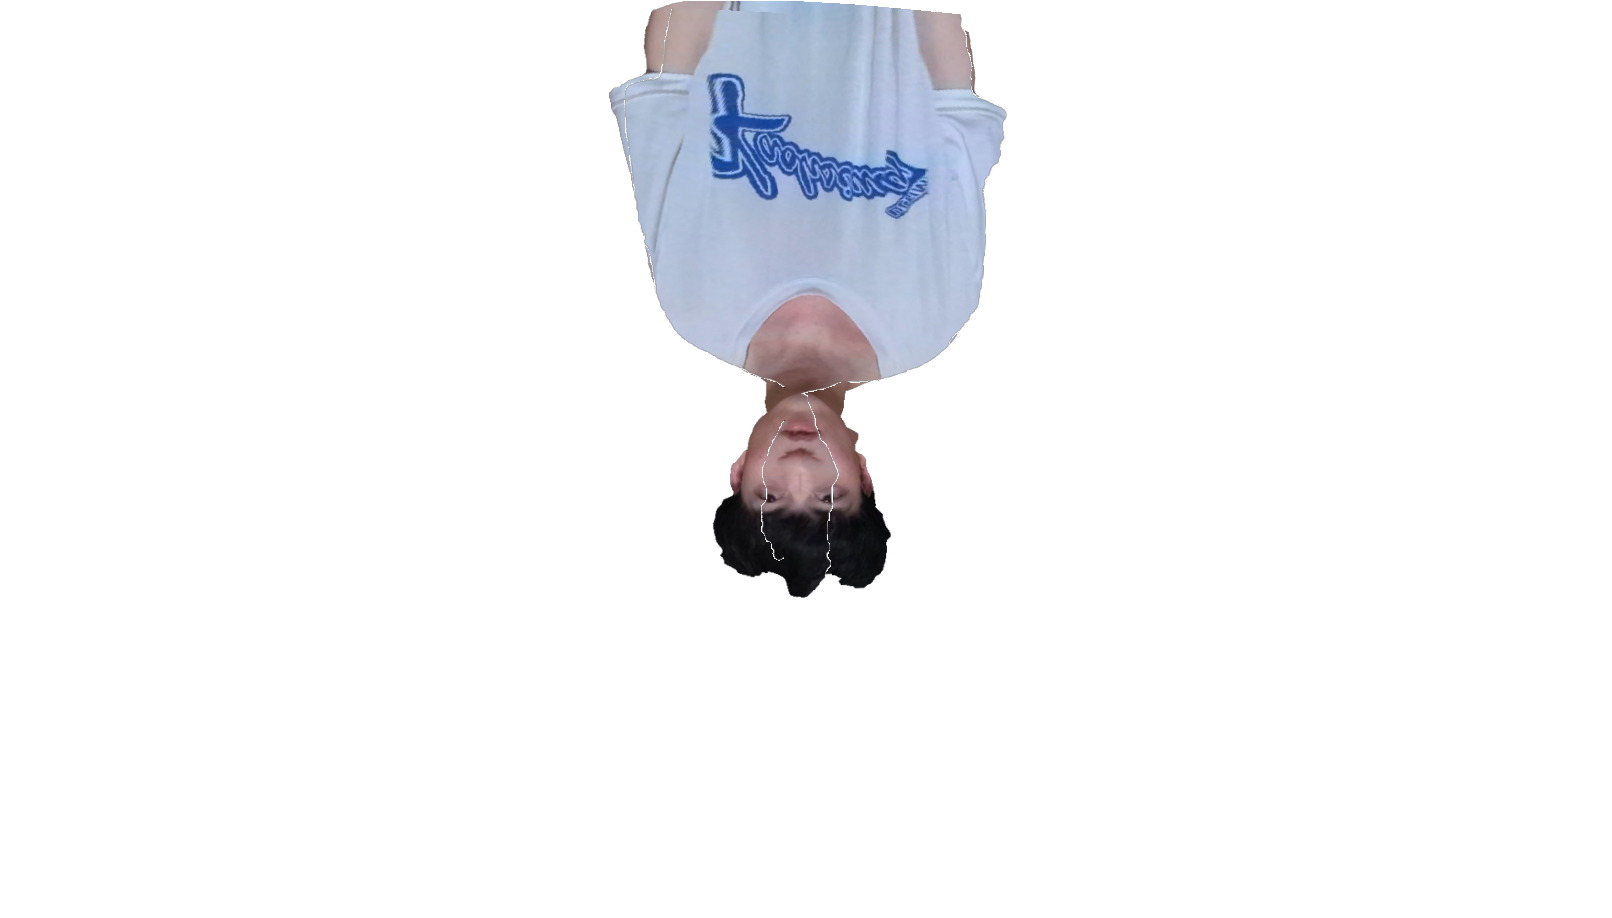
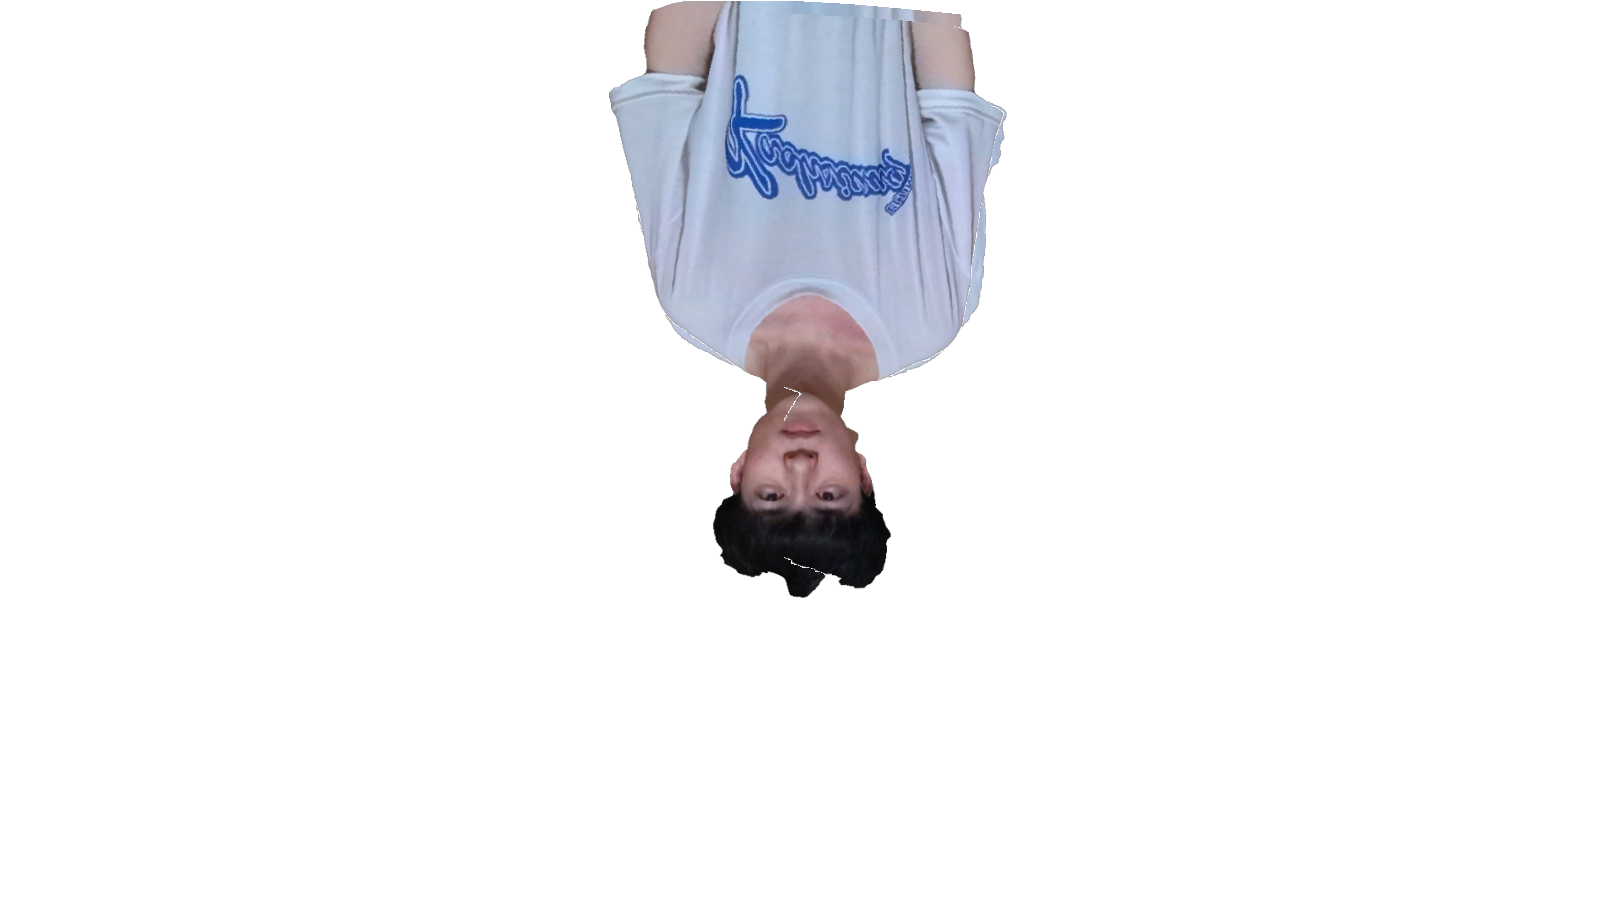
enhance :  debug output mask

Changed region(s): [[0.4032, 0.0, 0.6203, 0.366], [0.4653, 0.488, 0.5273, 0.549]]

diff --git a/GraphCut/test_maxflow.cpp b/GraphCut/test_maxflow.cpp
@@ -1,4 +1,4 @@
-
+
 #include <iostream>
 #include "maxflow.h"
 #include <opencv2/opencv.hpp>
@@ -114,13 +114,23 @@ vector<vector<int>> findOverlap(Mat imgL,Mat imgR) {
     }
     
     Mat mask_L(h, w, CV_8UC1, Scalar(0, 0, 0));
+    Mat mask_R(h, w, CV_8UC1, Scalar(0, 0, 0));
+    Mat mask_overlap(h, w, CV_8UC1, Scalar(0, 0, 0));
     for (int y = 0; y < h; y++) {
         for (int x = 0; x < w; x++) {
-            if (overlap_region[y][x] == 1)
+            if (overlap_region[y][x] == 1) {
                 mask_L.at<uchar>(y, x) = 255;
+            }
+            else if (overlap_region[y][x] == 2) {
+                mask_R.at<uchar>(y, x) = 255;
+            }else if (overlap_region[y][x] == 3) {
+                mask_overlap.at<uchar>(y, x) = 255;
+            }
         }
     }
-    imwrite("./result/debug_L.jpg",mask_L);
+    imwrite("./result/mask_L.jpg",mask_L);
+    imwrite("./result/mask_R.jpg",mask_R);
+    imwrite("./result/mask_overlap.jpg", mask_overlap);
 
     return overlap_region;
 }
@@ -307,23 +317,30 @@ int main()
     //erode(mask, mask, element);
 
 
-    imwrite("./result/mask.png", mask);
+    //imwrite("./result/mask.png", mask);
     Mat overlap_result(overlap_height, overlap_width, CV_8UC4, Scalar(0, 0, 0));
     Mat overlap_result_seam(overlap_height, overlap_width, CV_8UC4, Scalar(0, 0, 0));
     Mat colorMap(overlap_height, overlap_width, CV_8UC3, Scalar(0, 0, 0));
+    Mat colorMap_all(overlap_height, overlap_width, CV_8UC3, Scalar(0, 0, 0));
     for (int y = 0; y < overlap_height; y++) {
         for (int x = 0; x < overlap_width; x++) {
-            if (overlap_region_tag[y][x] == 1)
+            if (overlap_region_tag[y][x] == 1) {
                 overlap_result.at<Vec4b>(y, x) = imgL_overlap.at<Vec4b>(y, x);
-            else if (overlap_region_tag[y][x] == 2)
+                colorMap_all.at<Vec3b>(y, x) = Vec3b(0, 255, 0);
+            }
+            else if (overlap_region_tag[y][x] == 2) {
                 overlap_result.at<Vec4b>(y, x) = imgR_overlap.at<Vec4b>(y, x);
+                colorMap_all.at<Vec3b>(y, x) = Vec3b(255, 0, 0);
+            }
             else if (overlap_region_tag[y][x] == 3) {
                 if (mask.at<uchar>(y, x) == 255) {
-                    overlap_result.at<Vec4b>(y, x) = imgL_overlap.at<Vec4b>(y, x);
+                    overlap_result.at<Vec4b>(y, x) = imgR_overlap.at<Vec4b>(y, x);
+                    colorMap_all.at<Vec3b>(y, x) = Vec3b(255, 0, 0);
                     colorMap.at<Vec3b>(y, x) = Vec3b(255, 0, 0);
                 }
                 else {
-                    overlap_result.at<Vec4b>(y, x) = imgR_overlap.at<Vec4b>(y, x);
+                    overlap_result.at<Vec4b>(y, x) = imgL_overlap.at<Vec4b>(y, x);
+                    colorMap_all.at<Vec3b>(y, x) = Vec3b(0, 255, 0);
                     colorMap.at<Vec3b>(y, x) = Vec3b(0, 255, 0);
                 };
             }
@@ -404,7 +421,8 @@ int main()
  
     //imwrite("./result/overlap_result.png", overlap_result);
     //imwrite("./result/overlap_result_seam.png", overlap_result_seam);
-    imwrite("./result/colorMap.png", colorMap);
+    imwrite("./result/colorMapOverlap.png", colorMap);
+    imwrite("./result/colorMapAll.png", colorMap_all);
 
     imwrite("./result/panorama.png",panorama);
     imwrite("./result/panorama_seam.png", panorama_seam);
